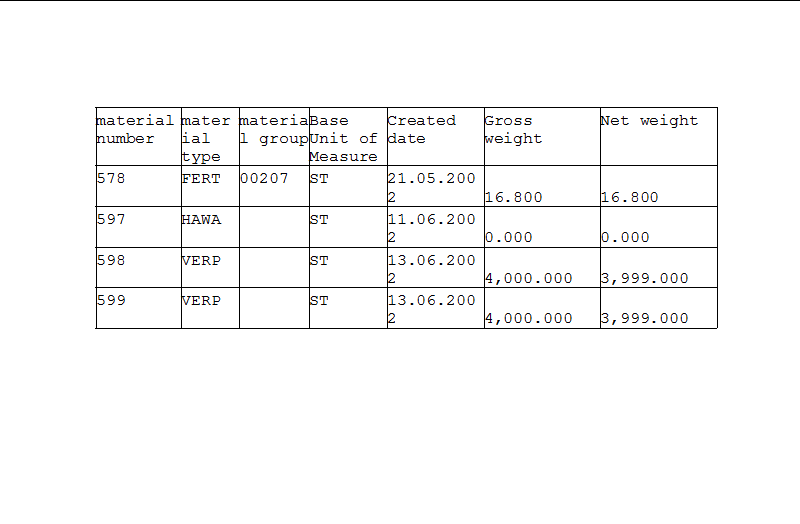
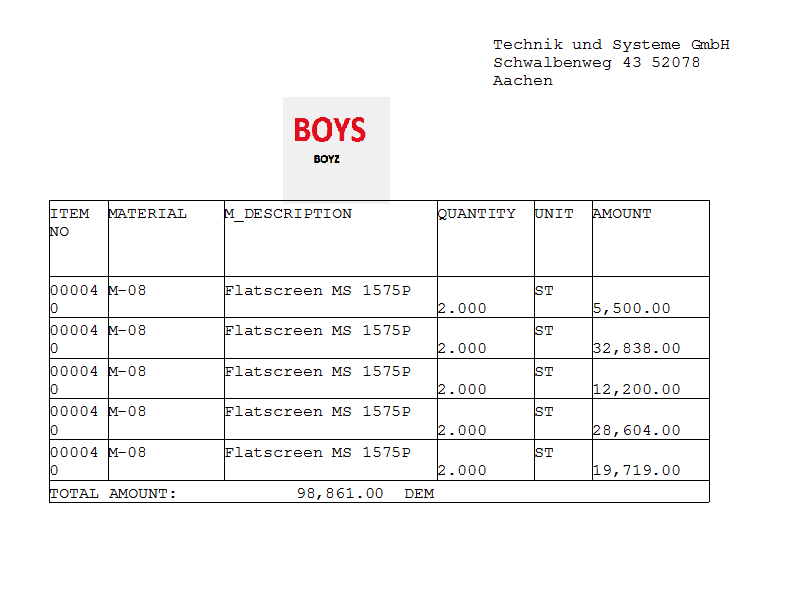
added updated files

diff --git a/SAP-Material-Master-SmartForm/readme.md b/SAP-Material-Master-SmartForm/readme.md
@@ -39,20 +39,12 @@ ZF_FORM_5/
 ZF_FORM_5.xml
 README.md
  images/
- smartform-output.png
- smartform.png
--output.png
+ smartform-output.png\
 
 
 ## Screenshots
 
-### 1. Smart Form Layout
-![Smart Form Layout](images/smartform-layout.png)
-
-### 2. Table Configuration
-![Smart Form Table Configuration](images/smartform-table.png)
-
-### 3. Smart Form Output
+### 1. Smart Form Output
 ![Smart Form Output](images/smartform-output.png)
 
 ## Learning Outcomes
